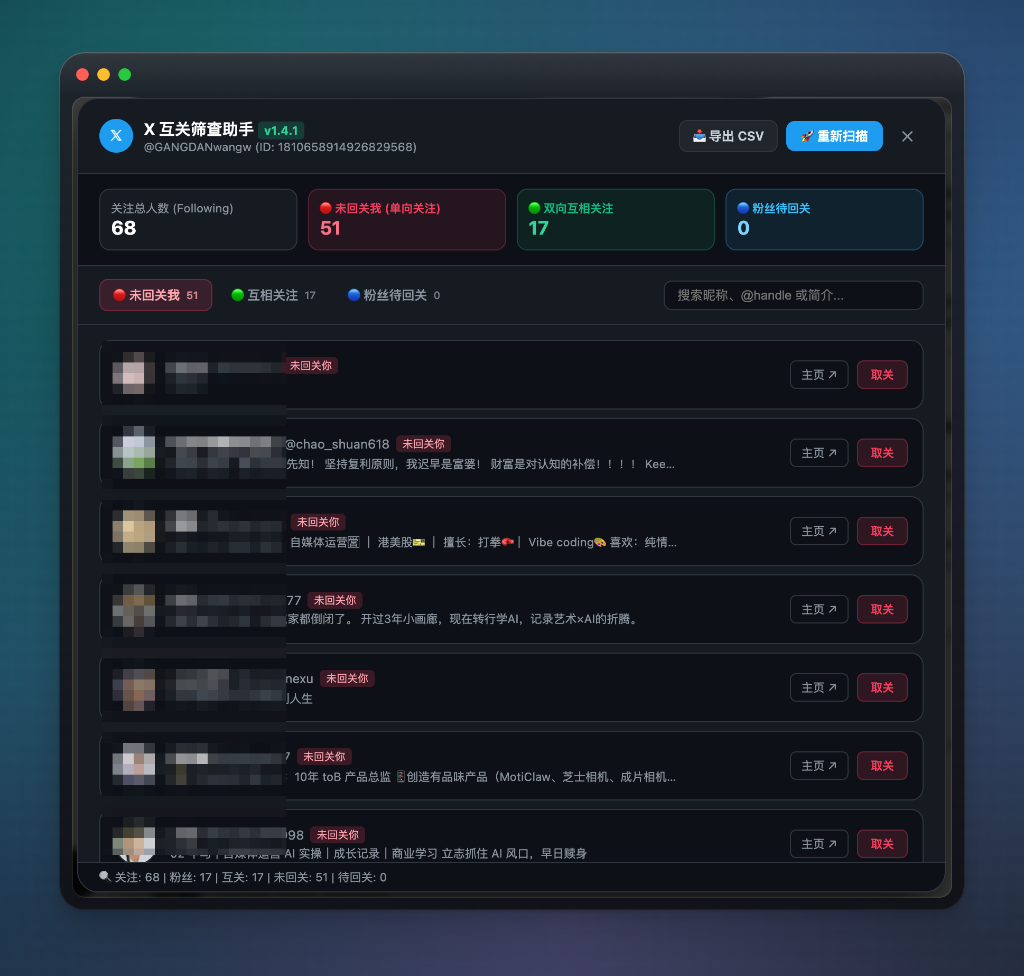
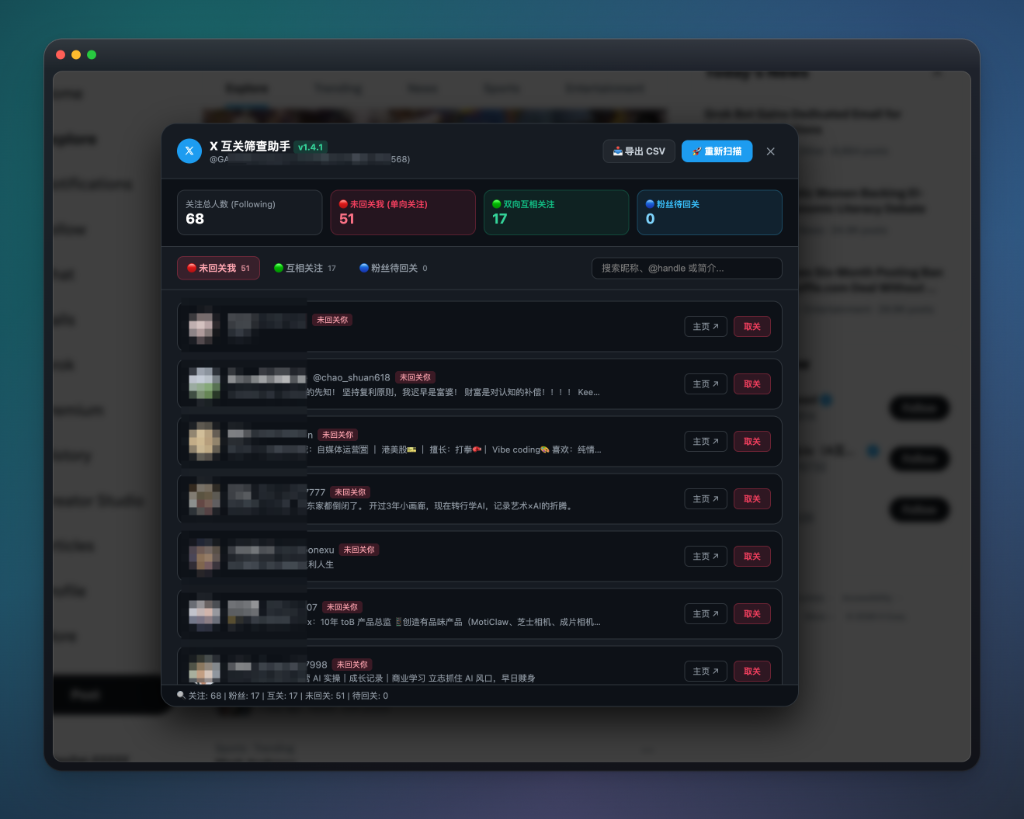
docs: reorder preview sections and update scan result panel screenshot

diff --git a/README.md b/README.md
@@ -43,18 +43,18 @@
 
 ## 🖼 效果预览
 
-### 1. 筛查结果与管理面板
-扫描完成后，自动计算并展示「关注总人数」、「未回关我」、「双向互关」和「粉丝待回关」四项核心指标。支持切换不同状态分类、一键取关、主页直达以及导出 CSV 备份。
-
-<div align="center">
-  <img src="docs/screenshots/scan-result-panel.png" alt="筛查结果与管理面板" width="85%" />
-</div>
-
-### 2. X 网页端一键呼出悬浮球
-登录 X 官方网页后，无需繁琐操作，页面右下角会自动常驻蓝色「𝕏 互关筛查」悬浮按钮，随时随地点开即查。
+### 1. X 网页端一键呼出悬浮球
+登录 X 官方网页后，无需繁琐操作，页面右下角会自动常驻蓝色「𝕏 互关筛查」悬浮胶囊按钮，随时随地点开即查。
 
 <div align="center">
   <img src="docs/screenshots/floating-button.png" alt="X 网页端右下角悬浮按钮" width="85%" />
+</div>
+
+### 2. 筛查结果与管理面板
+点击悬浮按钮即可展开面板，自动计算并展示「关注总人数」、「未回关我」、「双向互关」和「粉丝待回关」四项核心指标。支持切换不同状态分类、一键取关、主页直达以及导出 CSV 备份。
+
+<div align="center">
+  <img src="docs/screenshots/scan-result-panel.png" alt="筛查结果与管理面板" width="85%" />
 </div>
 
 ---
